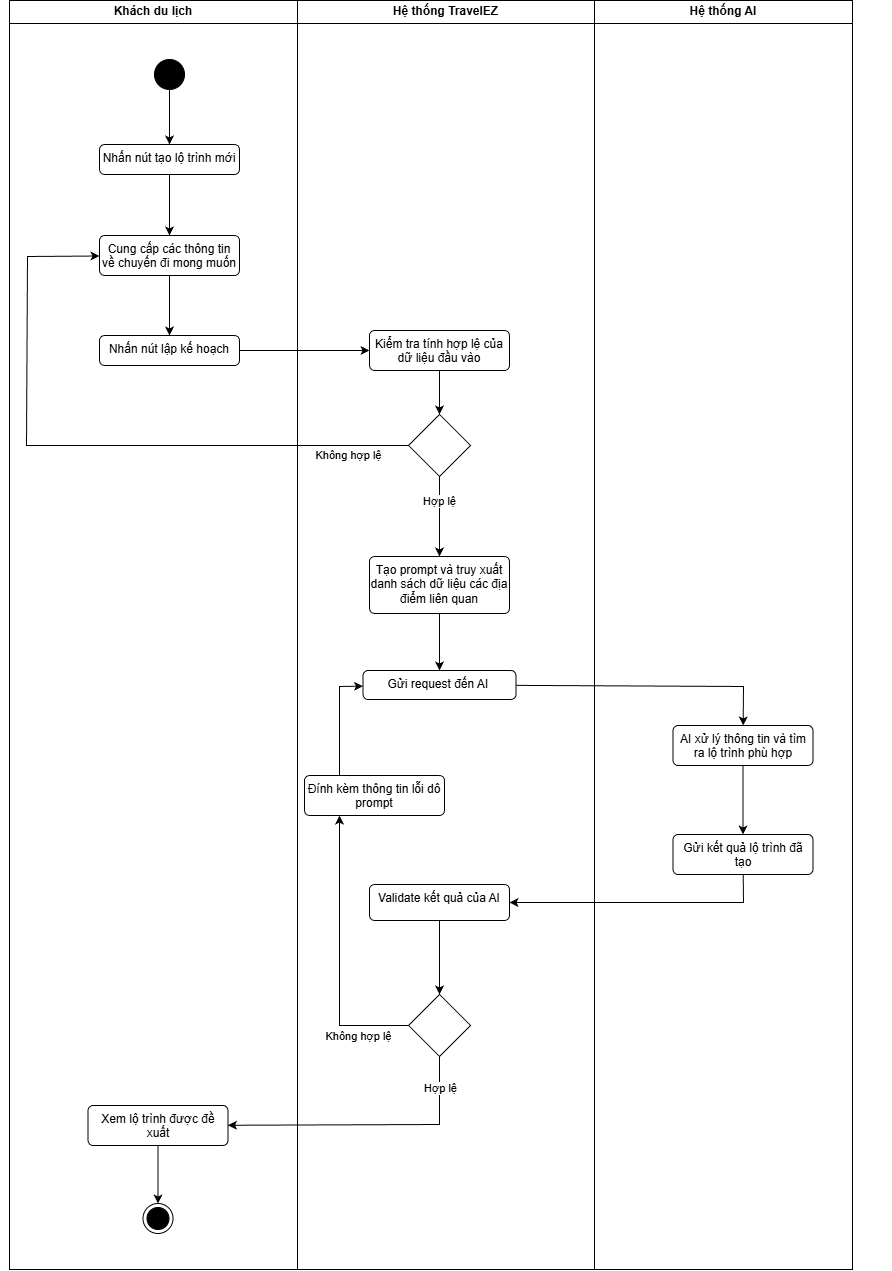
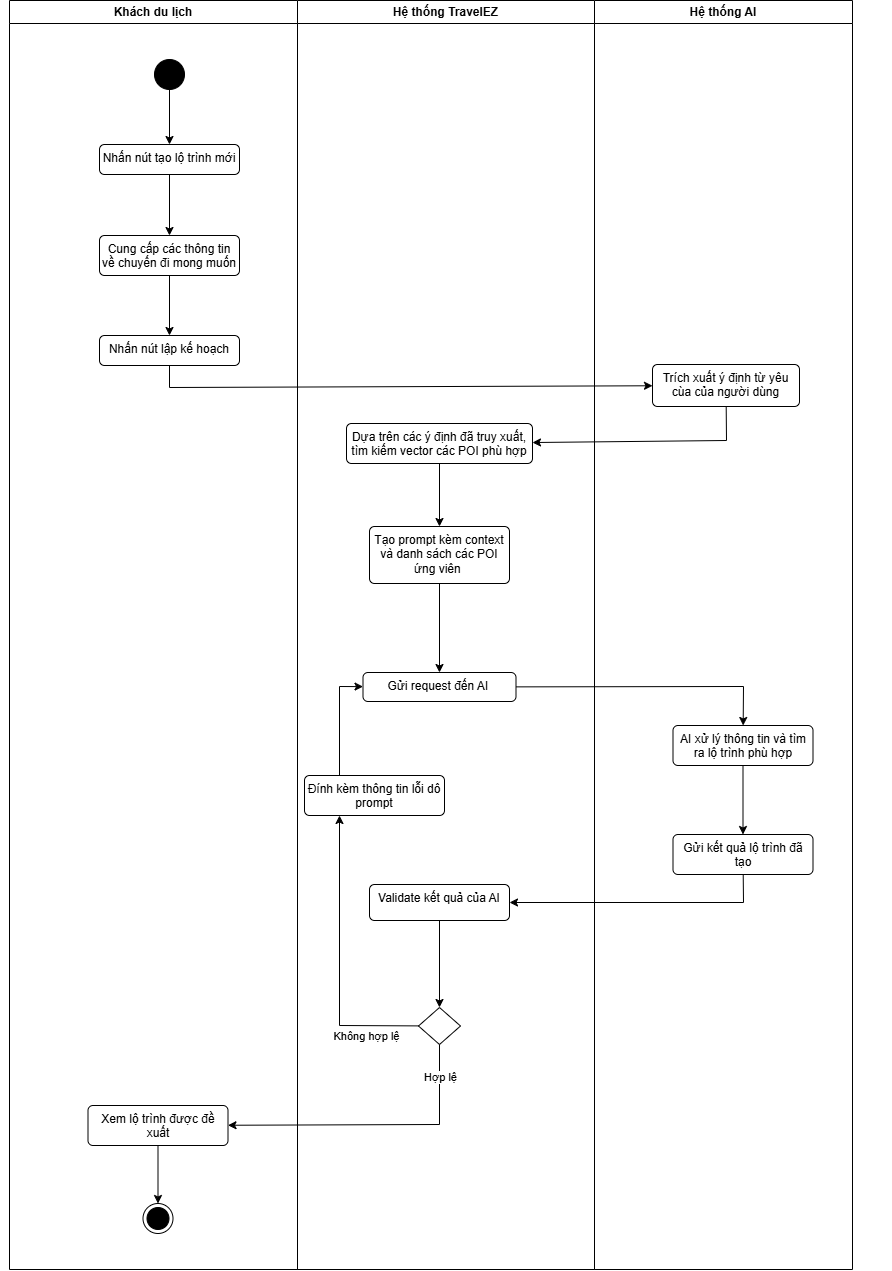
feat(pipeline generation itinerary): fix class diagram, activity diagram, evaluation, design system

diff --git a/Sections/8. System Evaluation/3-pipeline Itinerary generation.tex b/Sections/8. System Evaluation/3-pipeline Itinerary generation.tex
@@ -1,0 +1,53 @@
+\subsection{Đánh giá hiệu quả luồng sinh lộ trình}
+Phần này trình bày kết quả đối chiếu hiệu năng giữa phương pháp sử dụng mô hình ngôn ngữ lớn thuần túy và Kiến trúc luồng 6 giai đoạn được đề xuất trong đồ án. Mục tiêu là đánh giá mức độ cải thiện về tính khả thi vật lý (ràng buộc cứng) và chất lượng trải nghiệm (ràng buộc mềm) trên cùng một tập mẫu thực nghiệm.
+
+\subsubsection{Phạm vi thực nghiệm}
+Thực nghiệm được tiến hành đối soát trên tập dữ liệu gồm \textbf{35 kịch bản} du lịch đa dạng, bao phủ các nhu cầu về ngân sách, độ dài chuyến đi và yêu cầu đặc biệt. Phạm vi đánh giá được chia thành hai nhóm chính:
+
+\begin{itemize}
+    \item \textbf{Đánh giá ràng buộc cứng:} Đo lường tính khả thi vật lý thông qua việc đối chiếu với cơ sở dữ liệu và API định tuyến OSRM. 
+    \begin{itemize}
+        \item \textit{Đối với LLM thuần:} Kiểm tra hệ thống trên 856 địa điểm (POI), đối chiếu 643 khung giờ hoạt động và tính toán cho 750 chặng di chuyển.
+        \item \textit{Đối với Pipeline:} Kiểm tra trên 512 địa điểm, đối chiếu 380 khung giờ hoạt động và tính toán 402 chặng di chuyển (bao gồm 382 lần gọi OSRM API và 20 lần truy xuất từ bộ nhớ đệm).
+    \end{itemize}
+    
+    \item \textbf{Đánh giá ràng buộc mềm:} Sử dụng phương pháp \textit{LLM-as-a-Judge} với 3 mô hình độc lập: \textbf{Grok 4, Deepseek-R1, và GPT-5.3}. Các mô hình chấm điểm dựa trên thang điểm 15 với 3 tiêu chí cốt lõi: (1) Độ khớp chân dung người dùng, (2) Tính hợp lý thời điểm và (3) Nhịp độ di chuyển.
+\end{itemize}
+
+\subsubsection{Kết quả đánh giá ràng buộc cứng}
+Việc chuẩn hóa tập thực nghiệm về 35 kịch bản cho phép đưa ra cái nhìn trực diện về hiệu quả của kiến trúc pipeline so với baseline. Kết quả chi tiết được tổng hợp trong Bảng \ref{tab:hard_constraints_comparison}.
+
+\begin{table}[htbp]
+\centering
+\caption{So sánh hiệu suất giữa Pure LLM và Pipeline ($n=35$)}
+\label{tab:hard_constraints_comparison}
+\begin{tabular}{|l|c|c|}
+\hline
+\textbf{Tiêu chí đánh giá} & \textbf{Pure LLM (Baseline)} & \textbf{Pipeline (Đề xuất)} \\ \hline
+Tỉ lệ vượt qua ngân sách & 100\% & 100\% \\ \hline
+Tỉ lệ logic di chuyển & 20,00\% & 100\% \\ \hline
+Tỉ lệ giờ hoạt động & 77,14\% & 91,43\% \\ \hline
+\textbf{Tỉ lệ đạt chuẩn hoàn hảo} & 20,00\% & 91,43\% \\ \hline
+Thời gian thực thi trung bình & 30 -- 75 giây & 42 -- 142 giây \\ \hline
+\end{tabular}
+\end{table}
+
+\begin{itemize}
+    \item \textbf{Ràng buộc logic di chuyển:} LLM thuần thường gặp lỗi phi logic thời gian do không tính toán thời gian đi đường. Trong kiến trúc pipeline, vấn đề này được giải quyết thông qua việc kết hợp thuật toán định tuyến thực tế (OSRM) và bước hiệu chỉnh LLM dựa trên phản hồi dữ liệu. Thực nghiệm cho thấy, chỉ với một bước gọi hiệu chỉnh duy nhất, LLM đã có thể nhận diện thông tin từ OSRM để tự động chèn các khoảng đệm (buffer) thời gian và sắp xếp lại trình tự một cách tối ưu, đạt tỉ lệ hợp lệ tuyệt đối 100\%. Điều này chứng minh hiệu quả rất cao của cơ chế phản hồi được thiết lập.
+    \item \textbf{Ràng buộc giờ hoạt động:} Pipeline cải thiện đáng kể độ chính xác (tăng từ 77,14\% lên 91,43\%), giảm thiểu các sai sót về thời gian đóng/mở cửa của địa điểm nhờ dữ liệu metadata chính xác.
+    \item \textbf{Tỉ lệ đạt chuẩn hoàn hảo:} Pipeline đạt mức \textbf{91,43\%}, cho thấy khả năng tạo ra lộ trình thực thi được ngay trong thực tế, vượt trội hoàn toàn so với phương pháp Baseline.
+\end{itemize}
+
+\subsubsection{Kết quả đánh giá ràng buộc mềm}
+Lộ trình từ Pipeline nhận được phản hồi tích cực về khả năng thấu hiểu ngữ cảnh. Điểm trung bình có sự phân hóa theo độ khắt khe của mô hình: \textbf{Grok 4} (~11,59/15), \textbf{GPT-5.3} (~10,03/15) và \textbf{Deepseek-R1} (~9,43/15).
+
+\paragraph{Các kịch bản tiêu biểu:}
+\begin{description}
+    \item[Case 12 (Người ăn chay):] Đạt điểm gần tối đa (13,8/15) nhờ khả năng lọc địa điểm thuần chay chính xác và thiết lập nhịp độ tham quan phù hợp.
+    \item[Case 18 (Kỷ niệm tiệc cưới):] Nhận điểm đánh giá cao về tính sang trọng, đáp ứng đúng kỳ vọng của phân khúc khách hàng cao cấp.
+\end{description}
+
+\paragraph{Các hạn chế ghi nhận:} Hệ thống bộc lộ một số giới hạn về quy định đặc thù tại POI (ví dụ: cấm thú cưng tại Bảo tàng) hoặc các yếu tố ngoại cảnh như mức độ tiếng ồn tại các khu vực du lịch trung tâm.
+
+\subsubsection{Tổng kết đánh giá}
+Thông qua việc đối soát thực nghiệm, kiến trúc Pipeline 6 giai đoạn đã chứng minh được tính hiệu quả. Việc tích hợp định tuyến thực tế kết hợp với cơ chế hiệu chỉnh tập trung giúp tối ưu hóa cả về độ chính xác lẫn hiệu suất thực thi; đặc biệt là khả năng đạt được tính khả thi tuyệt đối về logic di chuyển ngay từ lần hiệu chỉnh đầu tiên. Tỉ lệ lộ trình hoàn hảo tăng gấp \textbf{4,5 lần} so với phương pháp baseline, khẳng định hiệu quả của kiến trúc lai trong bài toán gợi ý hành trình.

diff --git a/Sections/6. System Analysis/6-Itinerary generation Design/pipeline_architecture.tex b/Sections/6. System Analysis/6-Itinerary generation Design/pipeline_architecture.tex
@@ -1,0 +1,43 @@
+\subsubsubsection{Kiến trúc pipeline 6 giai đoạn}
+
+Để dung hòa giữa ràng buộc mềm (trải nghiệm người dùng) và ràng buộc cứng (logic toán học, vật lý), hệ thống TravelEZ không sử dụng phương pháp câu lệnh đơn. Thay vào đó, hệ thống áp dụng một pipeline gồm 6 giai đoạn nối tiếp được minh họa chi tiết trong Hình \ref{fig:pipeline_seq_diagram}.
+
+Kiến trúc này tuân thủ nguyên lý trách nhiệm duy nhất, phân tách quá trình xử lý thành 6 bước tuần tự. Đầu ra của mỗi giai đoạn là đầu vào của giai đoạn tiếp theo, giúp kiểm soát luồng dữ liệu và giảm thiểu sai số.
+
+\begin{figure}[htbp]
+    \centering
+    % Nhớ điều chỉnh lại đường dẫn file ảnh cho khớp với thư mục của bạn
+    \includegraphics[width=0.9\textwidth]{Images/7. System Design/pipeline Itinerary.png}
+    \caption{Biểu đồ tuần tự minh họa kiến trúc Pipeline 6 giai đoạn sinh lộ trình}
+    \label{fig:pipeline_seq_diagram}
+\end{figure}
+
+\textbf{Giai đoạn 1: Biên dịch chiến lược}\\
+\textbf{Mục tiêu:} Chuyển đổi yêu cầu ngôn ngữ tự nhiên không cấu trúc của người dùng thành các truy vấn có chủ đích.\\
+\textbf{Chi tiết thực thi:} Hệ thống tiếp nhận cấu hình chuyến đi và các ghi chú cá nhân. Thay vì tìm kiếm trực tiếp, một mô hình LLM tốc độ cao được sử dụng để phân tích ngữ cảnh (như đặc điểm nhóm khách, hạn chế về thể chất) và biên dịch thành một tập hợp các truy vấn ngữ nghĩa (semantic queries). Các truy vấn này được định dạng bắt buộc với tiền tố phân loại (ví dụ: \textit{"Category: Restaurant. romantic and quiet"}), nhằm thiết lập cơ sở cho đối sánh vector.
+
+\textbf{Giai đoạn 2: Truy xuất vector}\\
+\textbf{Mục tiêu:} Cung cấp bộ nhớ ngữ cảnh chứa các điểm đến phù hợp nhất với ý định của người dùng.\\
+\textbf{Chi tiết thực thi:} Triển khai phương pháp tìm kiếm lai. Các truy vấn từ giai đoạn 1 được chuyển đổi thành vector thông qua mô hình embedding. Trong cơ sở dữ liệu PostgreSQL với phần mở rộng \texttt{pgvector}, hệ thống kết hợp bộ lọc phân loại cứng (category) và toán tử khoảng cách cosine (\texttt{<=>}) để tìm kiếm K láng giềng gần nhất. Kết quả là một tập ứng viên (candidate pool) có độ tương đồng cao nhất về cảm xúc và trải nghiệm.
+
+\textbf{Giai đoạn 3: Khởi tạo bản nháp}\\
+\textbf{Mục tiêu:} Xử lý các ràng buộc mềm và phân bổ lịch trình sơ bộ theo cơ chế RAG.\\
+\textbf{Chi tiết thực thi:} LLM đóng vai trò là bộ lập kế hoạch (planner), tiếp nhận cửa sổ ngữ cảnh (context window) bao gồm thông tin người dùng và tập dữ liệu POI ứng viên đã được xác thực. Thông qua kỹ thuật tinh chỉnh câu lệnh (prompt engineering), mô hình bị ràng buộc bởi các quy tắc trải nghiệm để sinh ra bản nháp lộ trình dưới định dạng JSON.
+
+\textbf{Giai đoạn 4: Đánh giá tất định}\\
+\textbf{Mục tiêu:} Đóng vai trò kiểm duyệt, bảo vệ các ràng buộc cứng mà AI có khả năng vi phạm.\\
+\textbf{Chi tiết thực thi:} Bản nháp JSON được truyền qua một hệ thống thuật toán kiểm tra chéo, bao gồm:
+\begin{itemize}
+    \item \textit{Kiểm định không gian (Logistics):} Tích hợp công cụ Open Source Routing Machine (OSRM) để tính toán thời gian di chuyển vật lý giữa các tọa độ, đảm bảo các khoảng đệm thời gian là khả thi.
+    \item \textit{Kiểm định thời gian (Operating hours):} Đối chiếu thời gian dự kiến diễn ra hoạt động với dữ liệu giờ mở/đóng cửa thực tế của POI trong cơ sở dữ liệu.
+    \item \textit{Kiểm định tài chính (Budget):} Tính toán tổng chi phí dự kiến để đảm bảo nằm trong giới hạn ngân sách.
+\end{itemize}
+Kết quả là một báo cáo kiểm duyệt chứa danh sách các mã lỗi định lượng.
+
+\textbf{Giai đoạn 5: Tự hiệu chỉnh}\\
+\textbf{Mục tiêu:} Kích hoạt vòng lặp phản hồi để sửa các lỗi logic vật lý.\\
+\textbf{Chi tiết thực thi:} Chỉ kích hoạt nếu báo cáo kiểm duyệt ở Giai đoạn 4 có lỗi. Mô-đun hiệu chỉnh nhận lại bản nháp ban đầu cùng danh sách mã lỗi, phân tích và thực hiện tái cấu trúc cục bộ (dịch chuyển thời gian, loại bỏ POI xung đột) để giải quyết triệt để ràng buộc cứng mà không phá vỡ ràng buộc mềm. Đầu ra là bản JSON đã được chuẩn hóa.
+
+\textbf{Giai đoạn 6: Tích hợp dữ liệu}\\
+\textbf{Mục tiêu:} Hoàn thiện đối tượng dữ liệu trước khi chuyển giao cho tầng giao diện.\\
+\textbf{Chi tiết thực thi:} Giai đoạn cuối cùng thực hiện thao tác ánh xạ ngược các mã ID từ JSON vào cơ sở dữ liệu để truy xuất và đè/bổ sung các thông tin "chuẩn" như: hình ảnh đại diện, địa chỉ chi tiết, tọa độ bản đồ. Lộ trình lúc này trở thành một thực thể dữ liệu hoàn chỉnh, hoàn toàn loại bỏ nguy cơ "ảo giác dữ liệu" của AI.

diff --git a/Sections/6. System Analysis/6-Itinerary generation Design/problem_analysis.tex b/Sections/6. System Analysis/6-Itinerary generation Design/problem_analysis.tex
@@ -1,0 +1,26 @@
+\subsubsubsection{Phân tích bài toán và định hướng thiết kế}
+
+\textbf{Đặc thù của bài toán lập lịch trình du lịch:}\\
+Bài toán xây dựng lịch trình du lịch cá nhân hóa là một biến thể của bài toán định tuyến, nhưng có thêm các yếu tố liên quan đến sở thích và trải nghiệm người dùng. Lịch trình cần thỏa mãn đồng thời hai nhóm ràng buộc:
+\begin{itemize}
+    \item \textbf{Ràng buộc cứng:} Các điều kiện vật lý và logic không thể vi phạm, bao gồm: tổng ngân sách, khung giờ hoạt động của địa điểm (operating hours), và thời gian di chuyển giữa các điểm đến.
+    \item \textbf{Ràng buộc mềm:} Các yếu tố định tính ảnh hưởng đến trải nghiệm người dùng, bao gồm: nhịp độ chuyến đi (pacing), sự đa dạng về loại hình hoạt động (tránh lặp lại thể loại), và sự phù hợp về phong cách (vibe matching) giữa địa điểm với nhu cầu.
+\end{itemize}
+
+\textbf{Hạn chế của các công cụ tối ưu hóa truyền thống:}\\
+Trong quá trình khảo sát, nhóm đã xem xét ứng dụng các bộ giải tối ưu hóa tổ hợp như Google OR-Tools – một công cụ phổ biến cho các bài toán định tuyến (TSP, VRP). Tuy nhiên, phương pháp này bộc lộ hai hạn chế chính khi áp dụng vào bài toán du lịch:
+\begin{itemize}
+    \item \textit{Khó mô hình hóa ràng buộc mềm:} Việc biểu diễn các tiêu chí định tính (ví dụ: mức độ phù hợp về phong cách, sự thoải mái về nhịp độ,...) dưới dạng hàm mục tiêu toán học là phức tạp và thiếu chính xác. Rất khó để định lượng bằng các trọng số hình phạt cho việc "mất đi sự lãng mạn" hay "nhịp độ chuyến đi quá dồn dập".
+    \item \textit{Tính cứng nhắc khi xử lý đầu vào ngôn ngữ tự nhiên:} Dữ liệu đầu vào của người dùng là ngôn ngữ tự nhiên, mang tính chủ quan và đa dạng. Để sử dụng OR-Tools, cần xây dựng nhiều quy tắc chuyển đổi thủ công, làm giảm khả năng mở rộng và cá nhân hóa.
+\end{itemize}
+
+Từ những phân tích trên, nhóm kết luận rằng: Các công cụ tối ưu hóa truyền thống tuy đảm bảo tuyệt đối về ràng buộc cứng nhưng lại không hiệu quả trước ràng buộc mềm. Tuy nhiên, nếu chỉ sử dụng mô hình ngôn ngữ lớn (LLM) đơn thuần, hệ thống sẽ làm rất tốt ràng buộc mềm nhưng có nguy cơ vi phạm ràng buộc cứng do hiện tượng ảo giác (hallucination).
+
+\textbf{Định hướng thiết kế:}\\
+Để giải quyết bài toán đa mục tiêu này, nhóm đề xuất định hướng thiết kế lai, tách bạch vai trò xử lý của hệ thống thành một luồng công việc bao gồm ba thành phần cốt lõi:
+\begin{enumerate}
+    \item \textbf{Động cơ sáng tạo (Generator - LLM):} Đảm nhận việc thỏa mãn các ràng buộc mềm. Dựa trên dữ liệu ngữ nghĩa được truy xuất, LLM tạo ra bản nháp lịch trình, ưu tiên sự đa dạng, phong cách và nhịp độ phù hợp.
+    \item \textbf{Động cơ kiểm duyệt (Evaluator - Deterministic Algorithms):} Đảm bảo tuân thủ các ràng buộc cứng. Hệ thống sử dụng các thuật toán tất định và công cụ định tuyến (ví dụ: OSRM) để kiểm tra bản nháp về thời gian di chuyển, giờ mở cửa, ngân sách và phát hiện vi phạm ràng buộc cứng.
+    \item \textbf{Vòng lặp tự sửa lỗi (Self-Correction Loop):} Thay vì can thiệp thủ công, hệ thống tự động chuyển đổi các lỗi logic thành phản hồi dạng ngôn ngữ tự nhiên, gửi lại LLM để điều chỉnh lịch trình. Quá trình lặp lại cho đến khi tất cả ràng buộc được thỏa mãn.
+\end{enumerate}
+Kiến trúc này cho phép hệ thống vừa tận dụng khả năng suy luận ngữ nghĩa của LLM cho các ràng buộc mềm, vừa đảm bảo độ chính xác về mặt thời gian và không gian nhờ các thuật toán tất định.

diff --git a/Sections/6. System Analysis/6-Itinerary generation Design/semantic_space.tex b/Sections/6. System Analysis/6-Itinerary generation Design/semantic_space.tex
@@ -1,0 +1,28 @@
+\subsubsubsection{Xây dựng dữ liệu ngữ nghĩa và không gian dùng chung}
+
+\textbf{Cấu trúc hóa dữ liệu ngữ nghĩa địa điểm:}\\
+Thay vì sử dụng các mô tả thô từ cơ sở dữ liệu, hệ thống ứng dụng mô hình ngôn ngữ lớn (LLM) dạng instruct để đóng vai trò trích xuất dữ liệu. LLM đọc các đánh giá thực tế của người dùng và tổng hợp thông tin theo năm trường ngữ nghĩa có cấu trúc:
+\begin{itemize}
+    \item \textbf{Category \& Entity (Phân loại \& thực thể):} Định danh rõ loại hình (Ví dụ: nhà hàng, quán cafe, điểm tham quan).
+    \item \textbf{Vibe (Không khí):} Các đặc tính như yên tĩnh, lãng mạn, nhộn nhịp, v.v.
+    \item \textbf{Scenario (Ngữ cảnh sử dụng):} Các tình huống như hẹn hò, làm việc, họp mặt gia đình, v.v.
+    \item \textbf{Audience (Đối tượng phù hợp):} Sinh viên, cặp đôi, gia đình có trẻ nhỏ, v.v.
+    \item \textbf{Highlights \& Amenities (Điểm nổi bật \& tiện ích):} Bãi đỗ xe, nhạc sống, tầm nhìn hoàng hôn, v.v.
+\end{itemize}
+Năm trường này được ghép nối thành một văn bản ngữ nghĩa duy nhất (\textit{semantic\_text}) cho mỗi điểm đến (POI). Cách biểu diễn này đảm bảo rằng văn bản đại diện chứa các từ khóa mô tả đặc trưng mà người dùng thường sử dụng khi tìm kiếm địa điểm du lịch. \textit{semantic\_text} sau đó được truyền qua mô hình embedding để tạo vector POI. Các vector này được lưu trữ trong PostgreSQL với phần mở rộng \texttt{pgvector}.
+
+\textbf{Hồ sơ hóa sở thích người dùng bằng vector:}\\
+Mục đích của việc xây dựng \textit{semantic\_text} không chỉ phục vụ truy xuất ngữ nghĩa một lần mà còn để biểu diễn sở thích người dùng dưới dạng vector tiềm ẩn. Trong hệ thống, người dùng và POI được ánh xạ vào cùng một không gian vector. 
+
+Ban đầu, vector sở thích của người dùng chưa được xác định. Thông qua các phản hồi ngầm từ các tương tác xã hội trong hệ thống (như like, comment, share bài viết check-in tại một địa điểm), vector của POI tương ứng được sử dụng để cập nhật vector người dùng. Công thức cập nhật sử dụng trung bình động hàm mũ (Exponential Moving Average):
+\begin{equation}
+    V_{user}^{(t)} = \alpha \cdot V_{poi} + (1 - \alpha) \cdot V_{user}^{(t-1)}
+\end{equation}
+Trong đó, $\alpha$ là hệ số suy giảm (decay factor), giúp cân bằng giữa sở thích lịch sử và sở thích mới phát sinh.
+
+\textbf{Lợi ích của kiến trúc không gian vector dùng chung:}\\
+Việc biểu diễn POI qua 5 trường cấu trúc mang lại hai lợi thế chính cho pipeline sinh lịch trình:
+\begin{itemize}
+    \item \textit{Khớp nối ý định:} Khi người dùng nhập yêu cầu dạng tự do (ví dụ: "địa điểm lãng mạn cho hai người"), hệ thống truy vấn trực tiếp vào không gian vector để lấy các POI có Audience tương ứng với "couple" và Vibe tương ứng với "romantic".
+    \item \textit{Cập nhật thích nghi theo thời gian:} Khi người dùng tương tác nhiều với các địa điểm có đặc trưng nhất định, vector sở thích của họ dịch chuyển dần về phía cụm vector của các địa điểm đó. Ở giai đoạn sinh lịch trình, hệ thống sẽ lấy các POI nằm gần vector người dùng nhất làm ngữ cảnh đầu vào, nhờ đó kết quả đầu ra tự động phù hợp với gu cá nhân mà không yêu cầu khai báo lại từ đầu.
+\end{itemize}

diff --git a/Sections/6. System Analysis/1-Analysis/1-analysis.tex b/Sections/6. System Analysis/1-Analysis/1-analysis.tex
@@ -5,8 +5,8 @@
 Quy trình này mô tả sự tương tác giữa Khách du lịch, hệ thống TravelEZ và hệ thống AI để tạo ra một lịch trình du lịch tối ưu.
 \begin{itemize}
     \item \textbf{Bắt đầu:} Khách du lịch yêu cầu tạo lộ trình mới và cung cấp các thông tin mong muốn (điểm đến, phong cách, thời gian, chi phí,...).
-    \item \textbf{Xử lý:} Hệ thống TravelEZ kiểm tra tính hợp lệ của dữ liệu đầu vào. Nếu hợp lệ, hệ thống sẽ tổng hợp danh sách địa điểm và gửi yêu cầu (prompt) đến hệ thống AI.
-    \item \textbf{Phản hồi:} AI xử lý thông tin để đưa ra lộ trình phù hợp nhất. Kết quả từ AI sẽ được TravelEZ kiểm tra lại một lần nữa trước khi hiển thị chính thức cho người dùng. Trường hợp kết quả không đạt yêu cầu, hệ thống sẽ đính kèm thông tin lỗi và yêu cầu AI xử lý lại.
+    \item \textbf{Xử lý:} Hệ thống AI tiếp nhận và trích xuất ý định từ yêu cầu của người dùng. Dựa trên các ý định này, hệ thống TravelEZ thực hiện tìm kiếm vector để chọn ra các địa điểm (POI) phù hợp. Sau đó, hệ thống tạo prompt chứa ngữ cảnh và danh sách POI ứng viên để gửi request đến AI.
+    \item \textbf{Phản hồi:} AI xử lý thông tin để sinh ra lộ trình phù hợp. Hệ thống TravelEZ tiến hành kiểm tra (validate) kết quả này; nếu không hợp lệ, hệ thống sẽ đính kèm thông tin lỗi vào prompt và yêu cầu AI xử lý lại. Nếu hợp lệ, lộ trình đề xuất sẽ được hiển thị cho khách du lịch.
 \end{itemize}
 \begin{figure}[H]
     \centering

diff --git a/Sections/5. Requirements Elicitation/2-requirement function.tex b/Sections/5. Requirements Elicitation/2-requirement function.tex
@@ -88,6 +88,6 @@ FR8.9 & Admin quản lý danh sách tài khoản vi phạm (xem, khóa/mở) & A
 \multicolumn{6}{l}{\textbf{Module 9: Quản trị hệ thống}}\\[2pt]
 FR8.1 & Người dùng nhận thông báo (in-app/email) về các hoạt động liên quan (tương tác, chia sẻ,...). & Traveler, Provider & Cần có & Cao & Cao \\
 FR8.2 & Xem ghi lại nhật ký các hoạt động quan trọng của người dùng. & Traveler & Có thể có & Cao & Cao \\
-FR8.3 & Admin quản lý các danh mục dùng chung của hệ thống (địa điểm POI, chủ đề). & Cần có & Cao & Cao \\
+FR8.3 & Admin quản lý các danh mục dùng chung của hệ thống (địa điểm POI, chủ đề). & Admin & Cần có & Cao & Cao \\
 \end{longtable}
 

diff --git a/Sections/6. System Analysis/system analysis.tex b/Sections/6. System Analysis/system analysis.tex
@@ -18,8 +18,8 @@
 \input{Sections/6. System Analysis/8-database design.tex}
 \input{Sections/6. System Analysis/9-class diagram design.tex}
 \input{Sections/6. System Analysis/10-AI design.tex}
-\input{Sections/6. System Analysis/11-sitemap.tex}
-\input{Sections/6. System Analysis/12-UI design.tex}
-\input{Sections/6. System Analysis/13-API design.tex}
-\input{Sections/6. System Analysis/14-Testcase design.tex}
-
+\input{Sections/6. System Analysis/11-Itinerary generation design.tex}
+\input{Sections/6. System Analysis/12-sitemap.tex}
+\input{Sections/6. System Analysis/13-UI design.tex}
+\input{Sections/6. System Analysis/14-API design.tex}
+\input{Sections/6. System Analysis/15-Testcase design.tex}

diff --git a/Sections/6. System Analysis/4-AI design detail/Prompt-Architecture.tex b/Sections/6. System Analysis/4-AI design detail/Prompt-Architecture.tex
@@ -36,7 +36,7 @@ Dựa trên tài liệu khảo sát, nhóm thực hiện xem xét 4 kỹ thuật
     \item \textbf{Structured Prompting:} Sử dụng các khuôn mẫu định sẵn và các ràng buộc về định dạng (như JSON Schema) để hướng dẫn mô hình tuân thủ quy tắc dữ liệu, giảm thiểu lỗi sai cấu trúc.
 \end{itemize}
 
-\subsubsubsubsection{Đánh giá và luận giải chi tiết}
+\subsubsubsubsection{Đánh giá chi tiết}
 
 Để đảm bảo tính khách quan và nhất quán, nhóm thiết lập thang đo chuẩn hóa (Rubric) gồm 4 mức độ như sau:
 

diff --git a/Sections/6. System Analysis/11-Itinerary generation design.tex b/Sections/6. System Analysis/11-Itinerary generation design.tex
@@ -1,0 +1,5 @@
+\subsubsection{Thiết kế luồng sinh lộ trình}
+
+\input{Sections/6. System Analysis/6-Itinerary generation Design/problem_analysis.tex}
+\input{Sections/6. System Analysis/6-Itinerary generation Design/semantic_space.tex}
+\input{Sections/6. System Analysis/6-Itinerary generation Design/pipeline_architecture.tex}

diff --git a/Sections/6. System Analysis/10-AI design.tex b/Sections/6. System Analysis/10-AI design.tex
@@ -4,4 +4,4 @@
 
 \input{Sections/6. System Analysis/4-AI design detail/Prompt-Architecture.tex}
 
-\input{Sections/6. System Analysis/4-AI design detail/Prompt-Design.tex}
+% \input{Sections/6. System Analysis/4-AI design detail/Prompt-Design.tex}

diff --git a/Sections/8. System Evaluation/system evaluation.tex b/Sections/8. System Evaluation/system evaluation.tex
@@ -1,3 +1,3 @@
 \section{Đánh giá}
 \input{Sections/8. System Evaluation/1-frontend.tex}
-\input{Sections/8. System Evaluation/2-AI.tex}
+\input{Sections/8. System Evaluation/3-pipeline Itinerary generation.tex}
